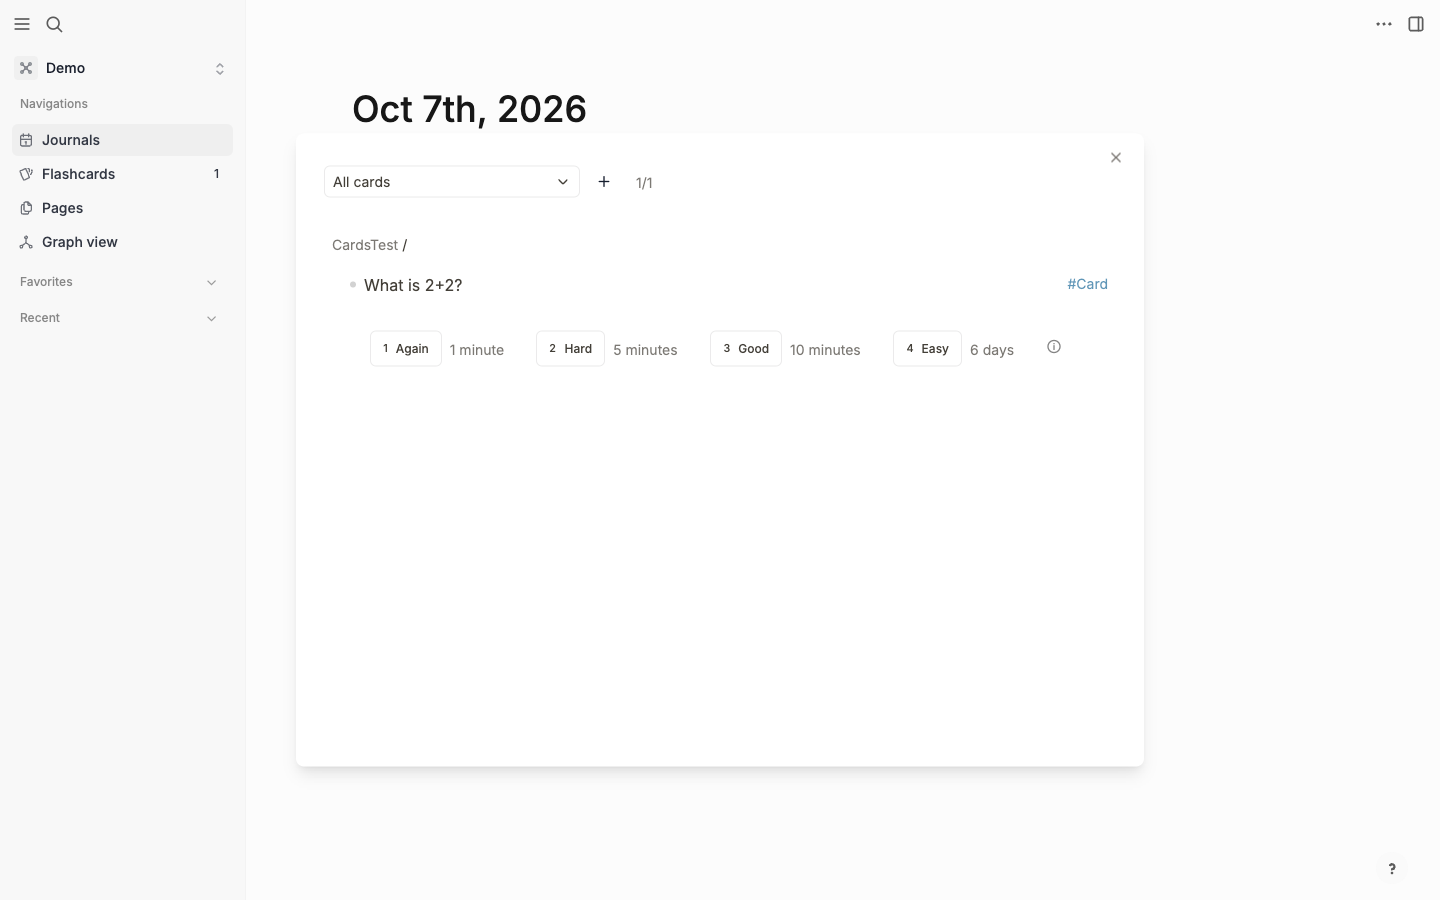
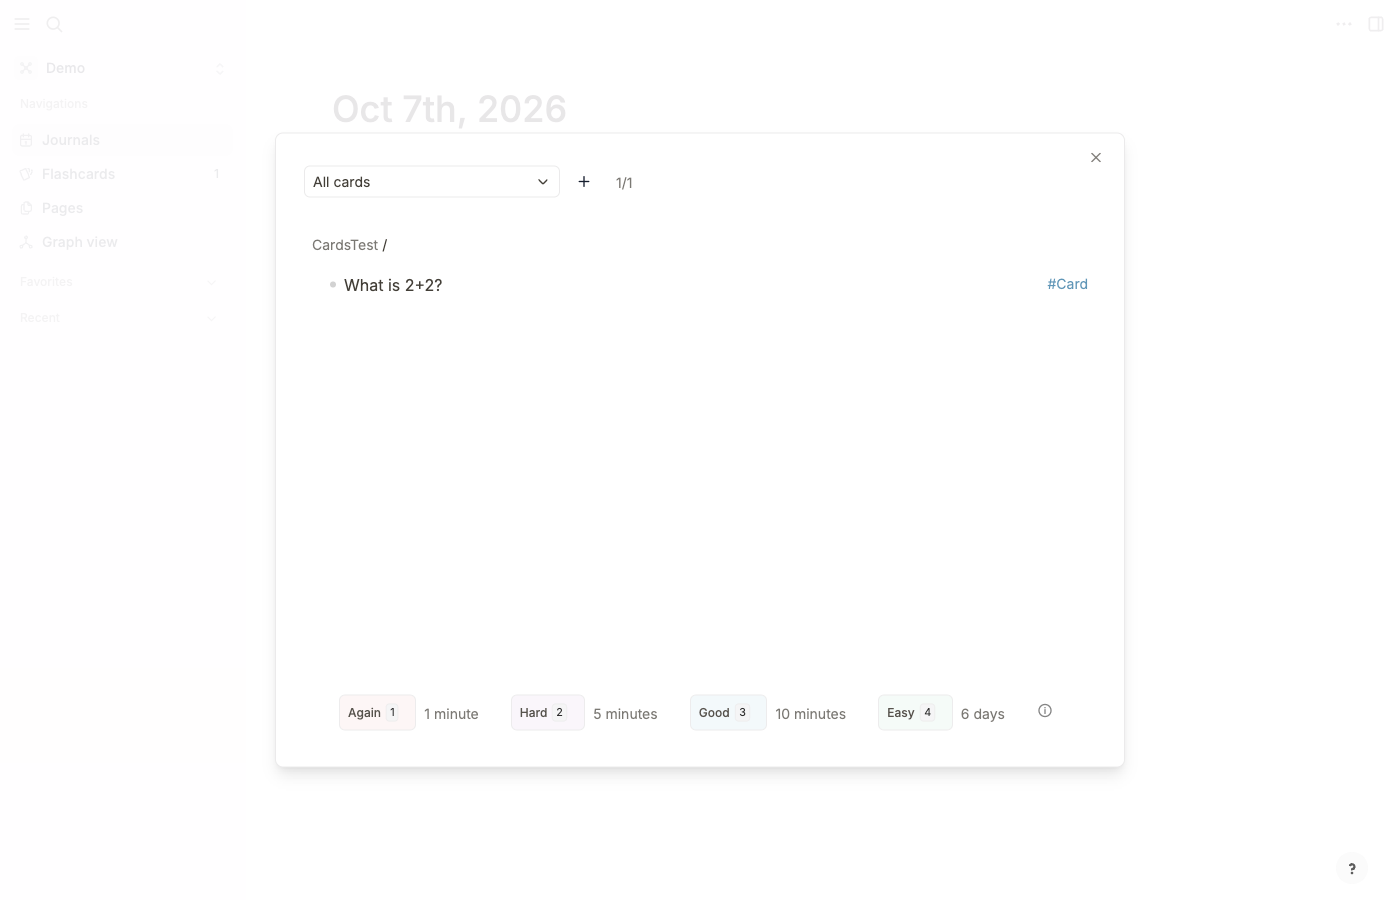
fix(ui): match cljs flashcards action buttons styling and bottom position
Style rating + Show answers buttons like cljs btn-with-shortcut
(outline sm, bg-primary/5 border-primary tint per rating, [label][kbd]
interior, shortcut tooltip). Pin the action row to the dialog bottom
with pure LUI layout: cards-main is a column kind and card-cur uses
~grow, so the scroll region expands on every platform — no CSS
override needed.

diff --git a/resources/css/lui-overlay.css b/resources/css/lui-overlay.css
@@ -4819,6 +4819,7 @@ select.form-select {
   overflow: hidden;
 }
 
+
 .ls-card-scroll {
   flex: 1;
   min-height: 0;

diff --git a/docs/pdf-flashcards-parity.md b/docs/pdf-flashcards-parity.md
@@ -37,8 +37,8 @@ Reference: `src/main/frontend/extensions/fsrs.cljs` (rating set `[:again :hard :
 | `#card` tag → Practice | page with tagged blocks shows Practice affordance + cards due | Practice button + card picker | ok | `lui-10` |
 | Review modal | `#cards-modal`: card-source select ("All cards" ▾) + `+` add-card + `n/total` counter + × | identical | ok | `lui-10` |
 | Question shown, answer hidden | card body renders question; nested/answer content hidden until reveal | same hiding convention | ok | `lui-10` |
-| Show answers (`s` / click) | reveals answer + swaps to rating buttons | identical | ok | `lui-11` |
-| Rating buttons | **Again / Hard / Good / Easy** with per-rating due labels + shortcut digits | identical 4-button set + labels + `1`–`4` | ok | `lui-11` |
+| Show answers (`s` / click) | outline `sm` button `card-answers` (`!px-2 !py-1 bg-primary/5 border-primary`) with interior `[label][kbd s]`, pinned at dialog bottom | identical classes + interior + bottom position | fixed | `master-10`, `lui-10` |
+| Rating buttons | **Again / Hard / Good / Easy** `btn-with-shortcut` outline sm buttons, per-rating `--primary` tint (`primary-red/-purple/-logseq/-green` → `bg-primary/5 border-primary opacity-90`), `[label][kbd]` interior, due label + `info` icon, row `gap-8` pinned at dialog bottom | identical; **was** solid `default` variant, no tint classes, no kbd chip, actions floating mid-dialog (`ui__dialog-main-content` is `display:block` so `flex:1` never stretched) | fixed | `master-11`, `lui-11` |
 | Rating persists fsrs props | `:logseq.property.fsrs/state`, `:logseq/last-rating`, `:logseq.property.fsrs/due` (epoch) | verified live: `state=learning`, `last-rating=good`, `due` epoch | ok | — |
 | Next card / completion | advance `n/total` → "Congrats, you've reviewed all the cards for this query, see you next time!" + Practice again | identical copy + button | ok | `lui-12` |
 | Keyboard | `s` show answers, `1`–`4` rate, `Escape` close | identical | ok | — |
@@ -55,10 +55,11 @@ Reference: `src/main/frontend/extensions/fsrs.cljs` (rating set `[:again :hard :
 - `editor_keys.ml` — `[data-pressable]` added to the click-guard `closest()` selector (annotation refs + pdf labels no longer enter edit mode).
 - `resources/css/extensions-pdf.css` (new) + `resources/index.html` / `static/index.html` + `postcss.config.js` — pdf extension stylesheet wired into the web build.
 - `cards_view.ml` + `lui-overlay.css` — card-set picker: custom styled box + hand-added chevron inside the `select` node produced a double border + double chevron + 40px overflow in a 32px row → now the `select` kind itself is the trigger (`.lui-select` border + built-in `::after` chevron), sized to cljs `!h-8 w-64`; and the scroll-region children are wrapped in one `column` (scroll kind stacks children in a single grid cell → breadcrumb overlapped the card text).
+- `cards_view.ml` — action buttons now mirror cljs `btn-with-shortcut`/`rating-btns`: outline `sm` variant with `!px-2 !py-1 bg-primary/5 hover:bg-primary/10 border-primary opacity-90 hover:opacity-100` + per-rating `primary-*` tint class, interior `row.gap-1` of `[text][kbd.shui-shortcut-key]`, `~tooltip` `flashcard/shortcut-tooltip` (`~label` is aria-only — verified in `lui_elements.js` → `AccessibilityLabel`). Bottom-pinning uses pure LUI layout, no CSS: `cards-main` is a `column` kind (was `box`/`display:block`, so `~grow` could never apply) and `card-cur` uses `~grow:1.` — cross-platform flex semantics (`lui-column` = `display:flex; flex-direction:column`), verified live: `#cards-modal` 188px→577px, actions at dialog bottom.
 
 ## Not covered
 
-- cljs master app was not launched this slice; master behavior is asserted from source (`pdf/*.cljs`, `fsrs.cljs`, `toolbar.cljs`, `assets.cljs`).
+- cljs master verified two ways: source (`pdf/*.cljs`, `fsrs.cljs`, `toolbar.cljs`, `assets.cljs`) + live captures of `app.logseq.com`'s cards modal (`master-10`, `master-11`) used to align the action-row position/styling.
 - Linked-references menu click-through (item renders; action unverified).
 - Cloze-style cards (`{{cloze}}`) render path not exercised end-to-end (phase machine mirrors cljs `:show-cloze`; no cloze card seeded).
 - No lui-layer changes needed — all fixes are deps/ui + repo-root css/html/postcss.
